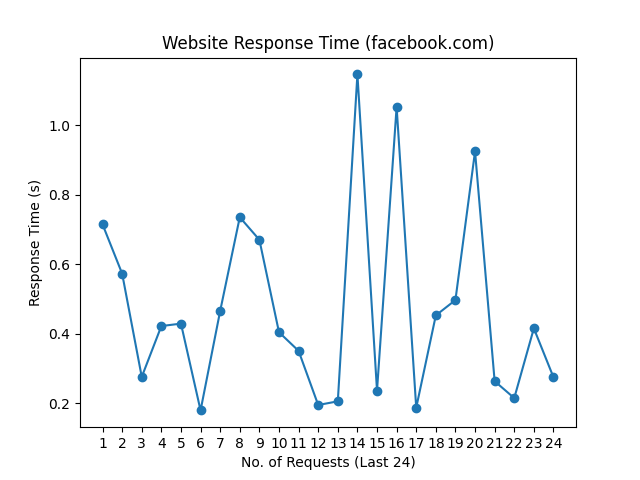
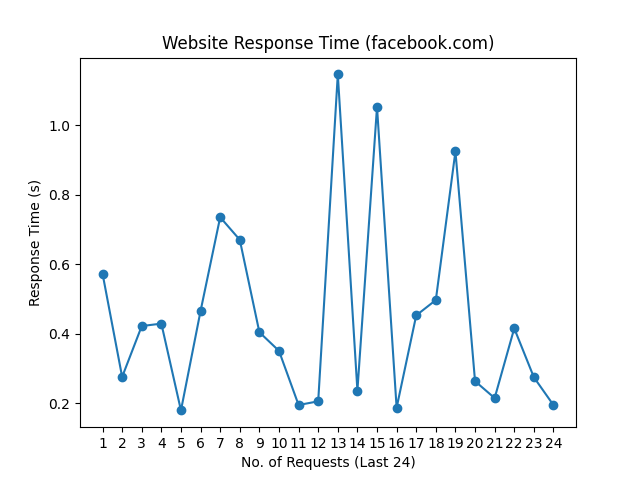
update README.md, history and graph

Changed region(s): [[0.1562, 0.125, 0.875, 0.875]]

diff --git a/README.md b/README.md
@@ -1,10 +1,10 @@
 # Web Monitoring
 
-Last Checked: 03/02/2025 08:20
+Last Checked: 04/02/2025 08:19
 
 | Website | Response Time (s) | Status | Avg Uptime (%) |
 |---------|-------------------|--------|----------------|
 | www.thiswebsiteisdown.net | 0 <br> <img src="graph/thiswebsiteisdown.net.png" alt="Graph" width="200" height="200">  | ❌ Down | 0.00 |
-| www.netflix.com | 0.600070 <br> <img src="graph/netflix.com.png" alt="Graph" width="200" height="200">  | ✅ Up | 99.82 |
-| www.google.com | 0.102208 <br> <img src="graph/google.com.png" alt="Graph" width="200" height="200">  | ✅ Up | 100.00 |
-| www.facebook.com | 0.274438 <br> <img src="graph/facebook.com.png" alt="Graph" width="200" height="200">  | ✅ Up | 100.00 |
+| www.netflix.com | 1.422834 <br> <img src="graph/netflix.com.png" alt="Graph" width="200" height="200">  | ✅ Up | 99.82 |
+| www.google.com | 0.066355 <br> <img src="graph/google.com.png" alt="Graph" width="200" height="200">  | ✅ Up | 100.00 |
+| www.facebook.com | 0.194107 <br> <img src="graph/facebook.com.png" alt="Graph" width="200" height="200">  | ✅ Up | 100.00 |
